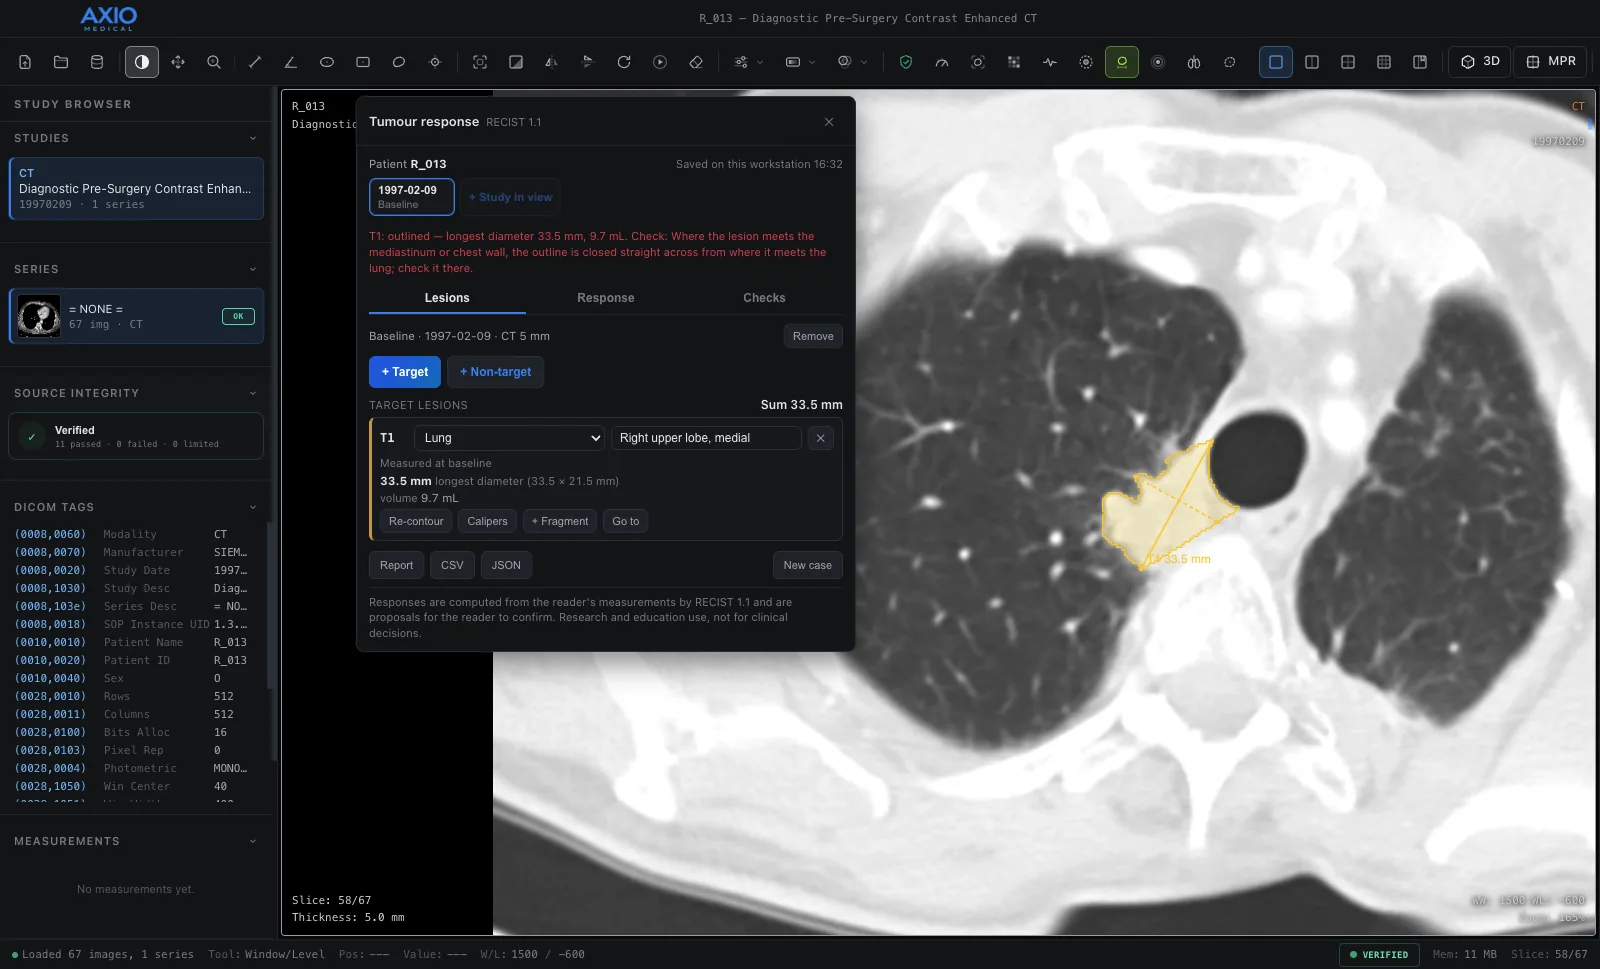
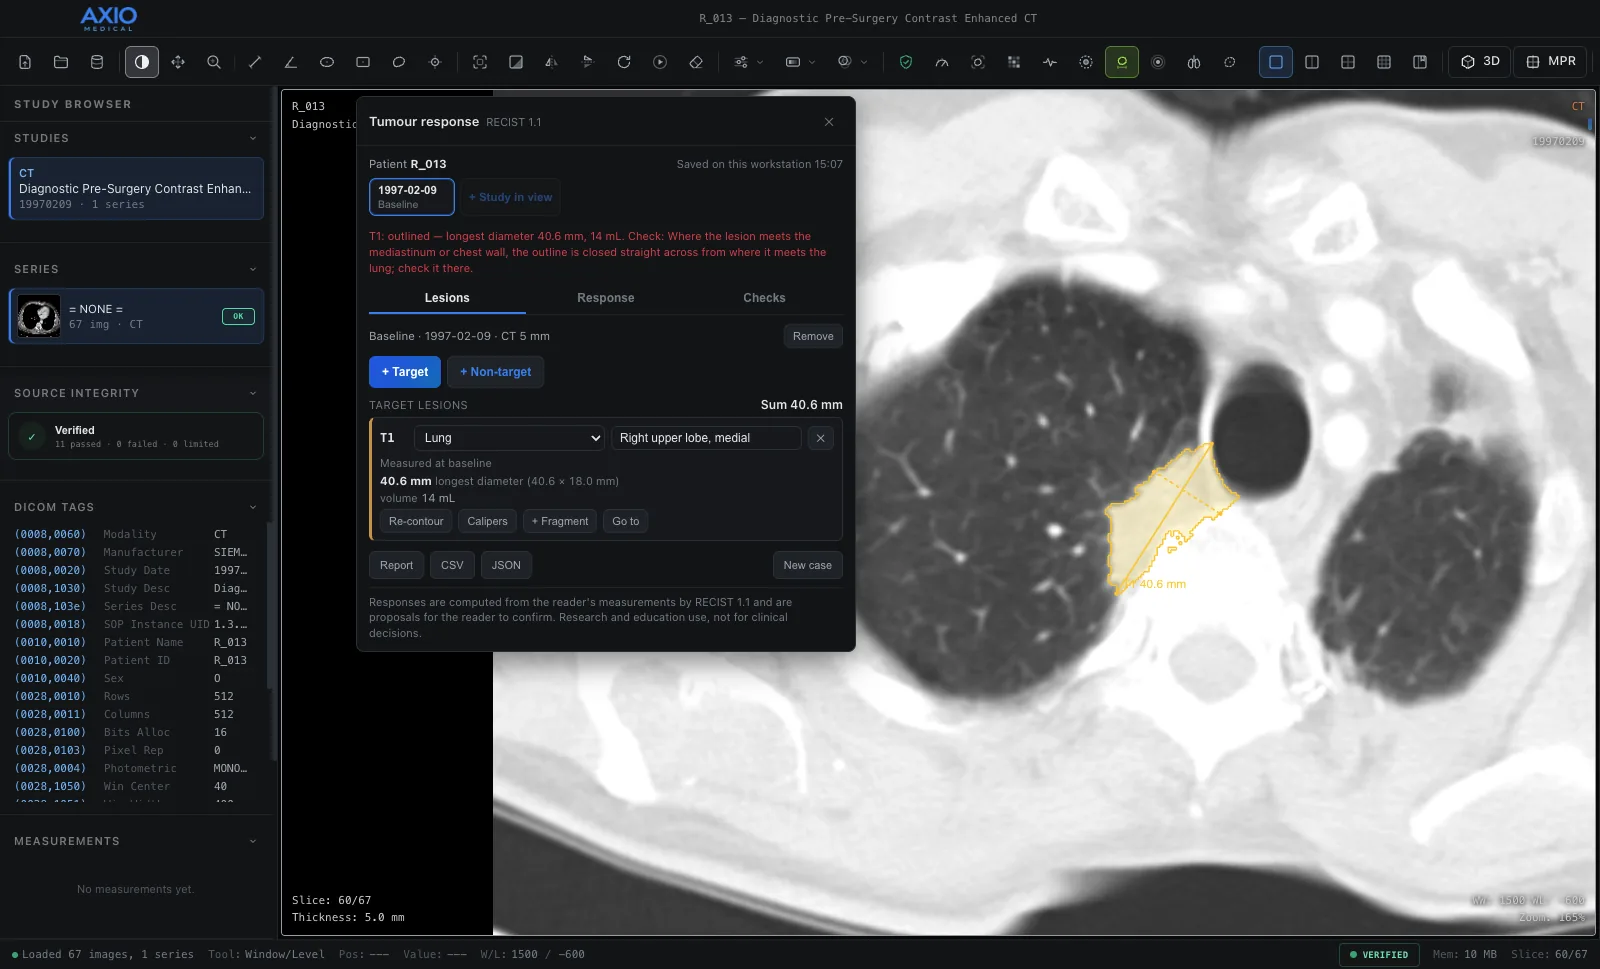
Website: 2.8.16 — clinical tests and PDF report; lung outlines independent of the click; tumour response screenshot

diff --git a/index.html b/index.html
@@ -536,7 +536,7 @@
       </div>
       <figure class="lg:col-span-7">
         <div class="figure-frame"><img src="img/recist.webp" width="1600" height="969" loading="lazy" alt="The Tumour response panel at baseline with one target lesion in the right upper lobe, and the lesion's 3D outline and long axis on the chest CT, beside the trachea and the mediastinum."></div>
-        <figcaption class="caption">One click on a right upper lobe mass: outlined in 3D up to the lung's edge where it meets the mediastinum, 33.5 × 21.5 mm and 9.7 mL, recorded as the baseline target lesion.</figcaption>
+        <figcaption class="caption">One click on a right upper lobe mass: outlined in 3D up to the lung's edge where it meets the mediastinum, 40.6 × 18.0 mm and 14 mL, recorded as the baseline target lesion. A click anywhere on the mass gives the same outline.</figcaption>
       </figure>
     </div>
   </div>
@@ -605,10 +605,12 @@
     <div class="grid gap-12 lg:grid-cols-12">
       <div class="lg:col-span-5">
         <p class="eyebrow">Download</p>
-        <h2 class="h-section mt-3">AXIO Medical 2.8.15</h2>
+        <h2 class="h-section mt-3">AXIO Medical 2.8.16</h2>
         <p class="lede mt-4">The 30-day trial. No account needed and no telemetry; enter your institution's licence key to keep using it afterwards.</p>
         <div class="mt-8 rounded-lg border border-accent/30 bg-accent/[0.06] p-5">
-          <p class="text-[14px] font-semibold text-ink-1">New in 2.8.15</p>
+          <p class="text-[14px] font-semibold text-ink-1">New in 2.8.16</p>
+          <p class="mt-2 text-[13.5px] leading-relaxed text-ink-2">Clinical tests: coronary calcium (Agatston, CAC-DRS) on non-contrast chest CT, each lesion confirmed by the reader; Brock and Mayo malignancy probability for each nodule; tumour radiomics after IBSI image processing, benchmarked against the IBSI reference values. Run all tests writes a PDF report with labelled anatomy images. The outline of a lung lesion against the mediastinum no longer depends on where it is clicked.</p>
+          <p class="mt-3 text-[14px] font-semibold text-ink-1">New in 2.8.15</p>
           <p class="mt-2 text-[13.5px] leading-relaxed text-ink-2">Lung lesions that touch the mediastinum or chest wall are outlined to the lung's edge instead of running on into it, and the reader is asked to check the outline there. A lesion beside the trachea takes its edge from the lung, not from the airway's air. Applies to tumour response and nodule measurement.</p>
           <p class="mt-3 text-[14px] font-semibold text-ink-1">New in 2.8.14</p>
           <p class="mt-2 text-[13.5px] leading-relaxed text-ink-2">Tumour response by RECIST 1.1: record target and non-target lesions, outline each in 3D with one click (its diameters and volume measured from the outline), and at the next study find every lesion again by the patient's anatomy and outline it the same way. Each follow-up gets its response and the case its best overall response, with every rule of the guideline and its 2016 update applied, and the reader's decision kept beside the computed one. A redrawn toolbar, each button in its own colour.</p>
@@ -629,8 +631,8 @@
           <h3 class="font-display text-[18px] font-semibold">macOS</h3>
           <p class="mt-1 text-[13px] text-ink-3">macOS 11+ · Apple Silicon (M1 and later)</p>
           <div class="mt-6 flex flex-col gap-3">
-            <a class="btn-primary" href="https://github.com/godsonj64/axiomedical3-releases/releases/download/v2.8.15/AXIO.Medical-2.8.15-arm64.dmg">Disk image <span class="font-normal opacity-80">· 112 MB</span></a>
-            <a class="btn-secondary" href="https://github.com/godsonj64/axiomedical3-releases/releases/download/v2.8.15/AXIO.Medical-2.8.15-arm64-mac.zip">Zipped app <span class="font-normal text-ink-3">· 123 MB</span></a>
+            <a class="btn-primary" href="https://github.com/godsonj64/axiomedical3-releases/releases/download/v2.8.16/AXIO.Medical-2.8.16-arm64.dmg">Disk image <span class="font-normal opacity-80">· 112 MB</span></a>
+            <a class="btn-secondary" href="https://github.com/godsonj64/axiomedical3-releases/releases/download/v2.8.16/AXIO.Medical-2.8.16-arm64-mac.zip">Zipped app <span class="font-normal text-ink-3">· 123 MB</span></a>
           </div>
           <p class="fine mt-3">Intel Mac? <a class="text-accent-tint underline decoration-accent/40 underline-offset-2 hover:decoration-accent" href="https://github.com/godsonj64/axiomedical3-releases/releases/tag/v2.8.8">2.8.8</a> is the last version for Intel Macs.</p>
         </div>
@@ -638,12 +640,12 @@
           <h3 class="font-display text-[18px] font-semibold">Windows</h3>
           <p class="mt-1 text-[13px] text-ink-3">Windows 10 / 11 · x64</p>
           <div class="mt-6 flex flex-col gap-3">
-            <a class="btn-primary" href="https://github.com/godsonj64/axiomedical3-releases/releases/download/v2.8.15/AXIO.Medical.Setup.2.8.15.exe">Installer <span class="font-normal opacity-80">· 103 MB</span></a>
-            <a class="btn-secondary" href="https://github.com/godsonj64/axiomedical3-releases/releases/download/v2.8.15/AXIO.Medical.2.8.15.exe">Portable <span class="font-normal text-ink-3">· 102 MB</span></a>
+            <a class="btn-primary" href="https://github.com/godsonj64/axiomedical3-releases/releases/download/v2.8.16/AXIO.Medical.Setup.2.8.16.exe">Installer <span class="font-normal opacity-80">· 103 MB</span></a>
+            <a class="btn-secondary" href="https://github.com/godsonj64/axiomedical3-releases/releases/download/v2.8.16/AXIO.Medical.2.8.16.exe">Portable <span class="font-normal text-ink-3">· 102 MB</span></a>
           </div>
         </div>
         <div class="sm:col-span-2">
-          <p class="fine">These builds are not signed with a paid code-signing certificate. On macOS, open the app once, then choose <span class="text-ink-2">Open Anyway</span> under System Settings → Privacy &amp; Security; on Windows, choose <span class="text-ink-2">More info → Run anyway</span> if SmartScreen appears. Verify downloads against the SHA-256 checksums in the <a class="text-accent-tint underline decoration-accent/40 underline-offset-2 hover:decoration-accent" href="https://github.com/godsonj64/axiomedical3-releases/releases/tag/v2.8.15">release notes</a>.</p>
+          <p class="fine">These builds are not signed with a paid code-signing certificate. On macOS, open the app once, then choose <span class="text-ink-2">Open Anyway</span> under System Settings → Privacy &amp; Security; on Windows, choose <span class="text-ink-2">More info → Run anyway</span> if SmartScreen appears. Verify downloads against the SHA-256 checksums in the <a class="text-accent-tint underline decoration-accent/40 underline-offset-2 hover:decoration-accent" href="https://github.com/godsonj64/axiomedical3-releases/releases/tag/v2.8.16">release notes</a>.</p>
         </div>
       </div>
     </div>

diff --git a/overview.html b/overview.html
@@ -53,7 +53,7 @@
 <!-- ───────────────────────── hero ───────────────────────── -->
 <section id="top" class="border-b border-line">
   <div class="wrap pb-16 pt-16 md:pb-20 md:pt-24">
-    <p class="eyebrow">Product overview · AXIO Medical 2.8.15</p>
+    <p class="eyebrow">Product overview · AXIO Medical 2.8.16</p>
     <div class="mt-4 grid gap-10 lg:grid-cols-12 lg:items-end">
       <div class="lg:col-span-7">
         <h1 class="font-display text-[clamp(2.25rem,5.2vw,3.75rem)] font-bold leading-[1.05] tracking-tightest">
@@ -263,6 +263,7 @@
         <h3 class="card-title">Measurements a routine CT already holds</h3>
         <ul class="bullets mt-4">
           <li>Liver fat, emphysema, vertebral bone density, aortic diameter, vascular calcification and organ volumes</li>
+          <li>Coronary artery calcium on non-contrast chest CT by the 2016 SCCT/STR rules (Agatston, CAC-DRS), each lesion assigned to its artery or rejected by the reader</li>
           <li>Graded normal, borderline or abnormal against published thresholds, each with its citation</li>
           <li>Input checks — contrast phase from the aorta, kernel, slice thickness, kV and coverage — leave a result <span class="text-ink-1">Not graded</span>, with the reason, where its threshold does not apply</li>
           <li>Compared with the patient's earlier studies from a local, pseudonymised history</li>
@@ -283,6 +284,7 @@
         <h3 class="card-title">PyRadiomics features</h3>
         <ul class="bullets mt-4">
           <li>107 features per structure: first-order, shape, GLCM, GLRLM, GLSZM, GLDM and NGTDM</li>
+          <li>Tumour radiomics of nodules and RECIST lesions after IBSI image processing: 102 of 102 comparable features within tolerance on the IBSI CT phantom, with each feature's change for a one-pixel outline change</li>
           <li>Optional wavelet and Laplacian-of-Gaussian filtered features</li>
           <li>Configurable bin width; features grouped by class and filterable</li>
           <li>CSV export for statistical analysis, recording the PyRadiomics version, bin width and conventions</li>
@@ -342,6 +344,7 @@
           <li>A warning when a nodule runs on as a vessel</li>
           <li>Matching to the patient's prior read, with growth assessment</li>
           <li>Lung-RADS categories and management, with reader override and reason</li>
+          <li>Brock and Mayo malignancy probability for each nodule, with each model's exclusions and cautions</li>
           <li>One screening report with nodules, emphysema index and lung cancer risk</li>
         </ul>
       </div>
@@ -446,6 +449,7 @@
             <tr><td>Biomarker results</td><td>DICOM SR (TID 1500 measurement report), with grades and unmet input checks</td></tr>
             <tr><td>Report and data</td><td>Structured text report and CSV, with review decisions and prior comparison</td></tr>
             <tr><td>Masks and features</td><td>NIfTI segmentation masks; radiomics CSV</td></tr>
+            <tr><td>Clinical report</td><td>PDF: every test with its input checks and review, the oncology read and labelled anatomy images, de-identified by default</td></tr>
             <tr><td>Tumour response</td><td>Text report, CSV and JSON: every lesion at every timepoint, the responses with their reasons, reader overrides</td></tr>
             <tr><td>Lung cancer risk</td><td>JSON trajectory with attention, ensemble members and input checks; PNG attention figure</td></tr>
             <tr><td>Integrity evidence</td><td>JSON with tolerances and per-check findings</td></tr>
